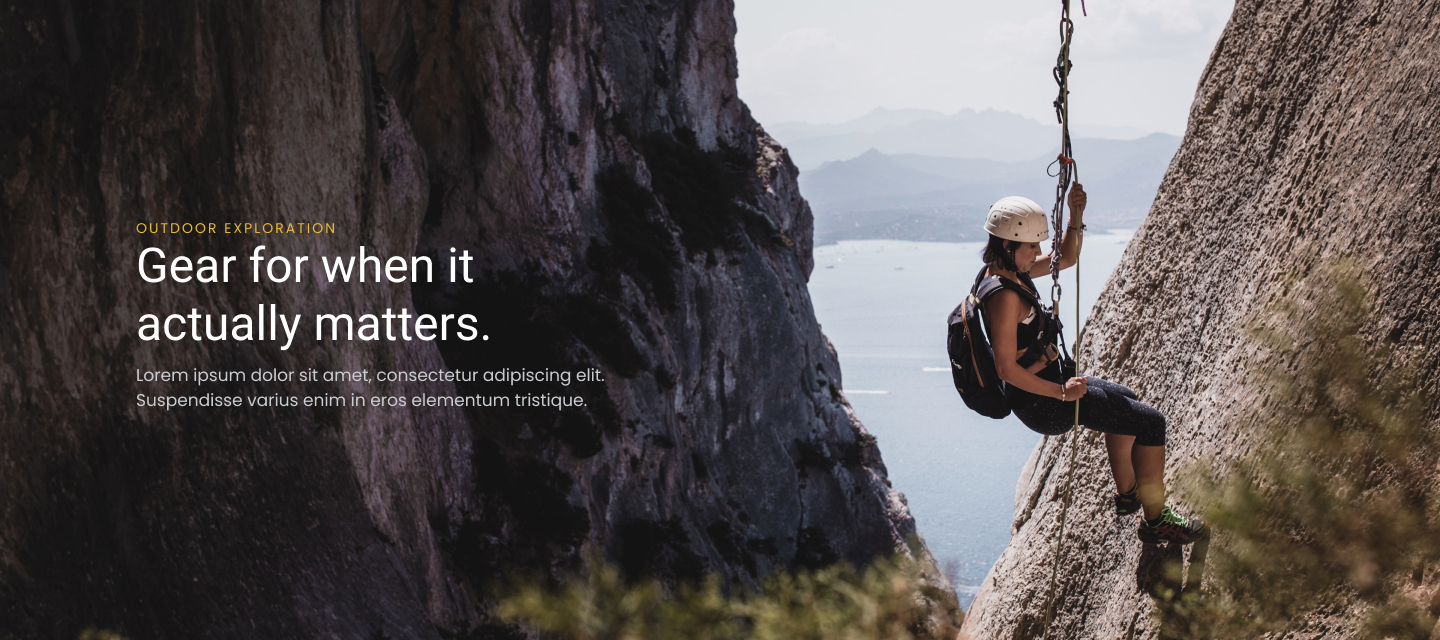
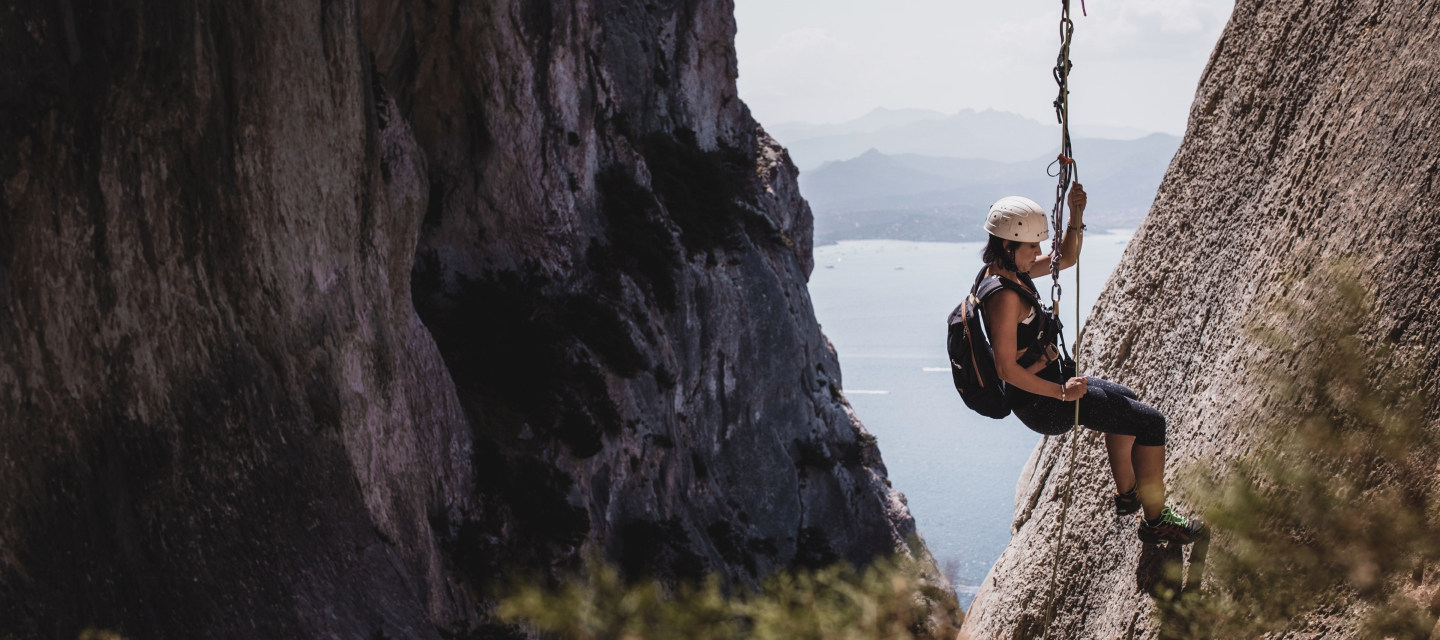
вёрстка блоков home и about

Changed region(s): [[0.0938, 0.5625, 0.4375, 0.6562], [0.0938, 0.3438, 0.3438, 0.4375], [0.0938, 0.4688, 0.3438, 0.5312]]

diff --git a/css/style.min.css b/css/style.min.css
@@ -1,1 +1,1 @@
-@import"https://fonts.googleapis.com/css2?family=Poppins&family=Roboto&display=swap";/*! normalize.css v8.0.1 | MIT License | github.com/necolas/normalize.css */html{line-height:1.15;-webkit-text-size-adjust:100%}body{margin:0}main{display:block}h1{font-size:2em;margin:.67em 0}hr{box-sizing:content-box;height:0;overflow:visible}pre{font-family:monospace,monospace;font-size:1em}a{background-color:rgba(0,0,0,0)}abbr[title]{border-bottom:none;text-decoration:underline;-webkit-text-decoration:underline dotted;text-decoration:underline dotted}b,strong{font-weight:bolder}code,kbd,samp{font-family:monospace,monospace;font-size:1em}small{font-size:80%}sub,sup{font-size:75%;line-height:0;position:relative;vertical-align:baseline}sub{bottom:-0.25em}sup{top:-0.5em}img{border-style:none}button,input,optgroup,select,textarea{font-family:inherit;font-size:100%;line-height:1.15;margin:0}button,input{overflow:visible}button,select{text-transform:none}button,[type=button],[type=reset],[type=submit]{-webkit-appearance:button}button::-moz-focus-inner,[type=button]::-moz-focus-inner,[type=reset]::-moz-focus-inner,[type=submit]::-moz-focus-inner{border-style:none;padding:0}button:-moz-focusring,[type=button]:-moz-focusring,[type=reset]:-moz-focusring,[type=submit]:-moz-focusring{outline:1px dotted ButtonText}fieldset{padding:.35em .75em .625em}legend{box-sizing:border-box;color:inherit;display:table;max-width:100%;padding:0;white-space:normal}progress{vertical-align:baseline}textarea{overflow:auto}[type=checkbox],[type=radio]{box-sizing:border-box;padding:0}[type=number]::-webkit-inner-spin-button,[type=number]::-webkit-outer-spin-button{height:auto}[type=search]{-webkit-appearance:textfield;outline-offset:-2px}[type=search]::-webkit-search-decoration{-webkit-appearance:none}::-webkit-file-upload-button{-webkit-appearance:button;font:inherit}details{display:block}summary{display:list-item}template{display:none}[hidden]{display:none}li{list-style:none}a{text-decoration:none;color:inherit}button{padding:0;border:none;font:inherit;color:inherit;background-color:rgba(0,0,0,0);cursor:pointer}.btn{padding:10px 18px;background-color:#575445;color:#fff;font-size:16px;border-radius:6px}.header{height:80px;display:flex;align-items:center}.header__container{display:flex;justify-content:space-between}.header__logo{display:flex;align-items:center}.header__nav{display:flex;align-items:center;margin-left:auto}.header__btn button:first-child{margin-right:20px}.nav__list{display:flex;align-items:center}.nav__item{margin-right:30px}*{margin:0;padding:0;box-sizing:border-box}body{color:#575445;font-family:"Poppins",sans-serif}.wrapper{color:#575445;font-family:"Poppins",sans-serif;margin:0 auto;max-width:1920px}.container{margin:0 auto;max-width:1220px;width:100%;padding:0 10px}/*# sourceMappingURL=style.min.css.map */
+@import"https://fonts.googleapis.com/css2?family=Poppins&family=Roboto&display=swap";/*! normalize.css v8.0.1 | MIT License | github.com/necolas/normalize.css */html{line-height:1.15;-webkit-text-size-adjust:100%}body{margin:0}main{display:block}h1{font-size:2em;margin:0}hr{box-sizing:content-box;height:0;overflow:visible}pre{font-family:monospace,monospace;font-size:1em}a{background-color:rgba(0,0,0,0)}abbr[title]{border-bottom:none;text-decoration:underline;-webkit-text-decoration:underline dotted;text-decoration:underline dotted}b,strong{font-weight:bolder}code,kbd,samp{font-family:monospace,monospace;font-size:1em}small{font-size:80%}sub,sup{font-size:75%;line-height:0;position:relative;vertical-align:baseline}sub{bottom:-0.25em}sup{top:-0.5em}img{border-style:none}button,input,optgroup,select,textarea{font-family:inherit;font-size:100%;line-height:1.15;margin:0}button,input{overflow:visible}button,select{text-transform:none}button,[type=button],[type=reset],[type=submit]{-webkit-appearance:button}button::-moz-focus-inner,[type=button]::-moz-focus-inner,[type=reset]::-moz-focus-inner,[type=submit]::-moz-focus-inner{border-style:none;padding:0}button:-moz-focusring,[type=button]:-moz-focusring,[type=reset]:-moz-focusring,[type=submit]:-moz-focusring{outline:1px dotted ButtonText}fieldset{padding:.35em .75em .625em}legend{box-sizing:border-box;color:inherit;display:table;max-width:100%;padding:0;white-space:normal}progress{vertical-align:baseline}textarea{overflow:auto}[type=checkbox],[type=radio]{box-sizing:border-box;padding:0}[type=number]::-webkit-inner-spin-button,[type=number]::-webkit-outer-spin-button{height:auto}[type=search]{-webkit-appearance:textfield;outline-offset:-2px}[type=search]::-webkit-search-decoration{-webkit-appearance:none}::-webkit-file-upload-button{-webkit-appearance:button;font:inherit}details{display:block}summary{display:list-item}template{display:none}[hidden]{display:none}li{list-style:none}a{text-decoration:none;color:inherit}button{padding:0;border:none;font:inherit;color:inherit;background-color:rgba(0,0,0,0);cursor:pointer}.btn{padding:10px 18px;background-color:#575445;color:#fff;font-size:16px;border-radius:6px}.header{height:80px;display:flex;align-items:center}.header__container{display:flex;justify-content:space-between;flex-wrap:wrap}.header__logo{display:flex;align-items:center}.header__nav{display:flex;align-items:center;margin-left:auto}.header__btn button:first-child{margin-right:20px}.nav__list{display:flex;align-items:center}.nav__item{margin-right:30px}.home{display:flex;align-items:center;width:100%;height:640px;background:url("../img/Home.jpg") no-repeat center/cover}.home__text{max-width:495px}.home__title{color:#e6b939;font-size:14px;line-height:20px;font-weight:400}.home h3{font-family:"Roboto",sans-serif;font-weight:400;font-size:48px;line-height:58px;color:#fff}.home p{font-weight:400;font-size:17px;line-height:25px;color:#caccd1}.about{display:flex;align-items:center;width:100%;height:775px;background:url("../img/Slice.jpg") no-repeat center/cover}.about__container{display:flex;justify-content:space-between;flex-wrap:wrap}.about__picture{max-width:576px;max-height:576px}.about__picture img{width:100%;height:100%;-o-object-fit:cover;object-fit:cover}.about__text{max-width:400px;display:flex;flex-direction:column;justify-content:center}.about__text h3{font-weight:400;font-size:14px;line-height:20px;letter-spacing:2px;text-transform:uppercase;color:#e6b939}.about__text h4{font-family:"Roboto",sans-serif;font-weight:400;font-size:36px;line-height:43px;margin-bottom:10px}.about__text p{font-weight:400;font-size:16px;line-height:19px;margin-bottom:20px}.about__text a{font-weight:400;font-size:15px;line-height:21px}*{margin:0;padding:0;box-sizing:border-box}body{color:#575445;font-family:"Poppins",sans-serif}.wrapper{color:#575445;font-family:"Poppins",sans-serif;margin:0 auto;max-width:1920px}.container{margin:0 auto;max-width:1220px;width:100%;padding:0 10px}/*# sourceMappingURL=style.min.css.map */

diff --git a/index.html b/index.html
@@ -32,7 +32,33 @@
         </div>
       </header>
       <section class="home">
-        <div></div>
+        <div class="container">
+          <div class="home__text">
+            <h1 class="home__title">OUTDOOR EXPLORATION</h1>
+            <h3>Gear for when it actually matters.</h3>
+            <p>
+              Lorem ipsum dolor sit amet, consectetur adipiscing elit. Suspendisse varius enim in
+              eros elementum tristique.
+            </p>
+          </div>
+        </div>
+      </section>
+      <section class="about">
+        <div class="container about__container">
+          <div class="about__picture">
+            <img src="/img/About.png" alt="О нас" />
+          </div>
+          <div class="about__text">
+            <h3>Who are we?</h3>
+            <h4>A bit about us.</h4>
+            <p>
+              We are an outdoor gear company focused on Lorem ipsum dolor sit amet, consectetur
+              adipiscing elit. Nullam scelerisque aliquam odio et faucibus. Nulla rhoncus feugiat
+              eros quis consectetur. Morbi neque ex, condimentum dapibus congue et.
+            </p>
+            <a href="">Read more <img src="/img/Arrow-Icon-Primary.png" alt="Arrow" /> </a>
+          </div>
+        </div>
       </section>
     </div>
   </body>

diff --git a/scss/_about.scss b/scss/_about.scss
@@ -1,0 +1,54 @@
+.about {
+  display: flex;
+  align-items: center;
+  width: 100%;
+  height: 775px;
+  background: url('../img/Slice.jpg') no-repeat center/cover;
+  &__container {
+    display: flex;
+    justify-content: space-between;
+    flex-wrap: wrap;
+  }
+
+  &__picture {
+    max-width: 576px;
+    max-height: 576px;
+    img {
+      width: 100%;
+      height: 100%;
+      object-fit: cover;
+    }
+  }
+  &__text {
+    max-width: 400px;
+    display: flex;
+    flex-direction: column;
+    justify-content: center;
+    h3 {
+      font-weight: 400;
+      font-size: 14px;
+      line-height: 20px;
+      letter-spacing: 2px;
+      text-transform: uppercase;
+      color: $orange;
+    }
+    h4 {
+      font-family: $second-font;
+      font-weight: 400;
+      font-size: 36px;
+      line-height: 43px;
+      margin-bottom: 10px;
+    }
+    p {
+      font-weight: 400;
+      font-size: 16px;
+      line-height: 19px;
+      margin-bottom: 20px;
+    }
+    a {
+      font-weight: 400;
+      font-size: 15px;
+      line-height: 21px;
+    }
+  }
+}

diff --git a/scss/_home.scss b/scss/_home.scss
@@ -1,0 +1,29 @@
+.home {
+  display: flex;
+  align-items: center;
+  width: 100%;
+  height: 640px;
+  background: url('../img/Home.jpg') no-repeat center/cover;
+  &__text {
+    max-width: 495px;
+  }
+  &__title {
+    color: $orange;
+    font-size: 14px;
+    line-height: 20px;
+    font-weight: 400;
+  }
+  h3 {
+    font-family: $second-font;
+    font-weight: 400;
+    font-size: 48px;
+    line-height: 58px;
+    color: $white;
+  }
+  p {
+    font-weight: 400;
+    font-size: 17px;
+    line-height: 25px;
+    color: #caccd1;
+  }
+}

diff --git a/scss/_header.scss b/scss/_header.scss
@@ -5,6 +5,7 @@
   &__container {
     display: flex;
     justify-content: space-between;
+    flex-wrap: wrap;
   }
   &__logo {
     display: flex;

diff --git a/scss/_vars.scss b/scss/_vars.scss
@@ -1,8 +1,7 @@
 // Цвета
 $brown: #575445;
-$orange: #575445;
+$orange: #e6b939;
 $white: #fff;
-$black: #000;
 
 // Шрифты
 

diff --git a/scss/style.scss b/scss/style.scss
@@ -5,6 +5,8 @@
 // Блоки
 @import '_button';
 @import '_header';
+@import '_home';
+@import '_about';
 
 * {
   margin: 0;

diff --git a/scss/_normalise.scss b/scss/_normalise.scss
@@ -39,7 +39,7 @@ main {
 
 h1 {
   font-size: 2em;
-  margin: 0.67em 0;
+  margin: 0;
 }
 
 /* Grouping content
